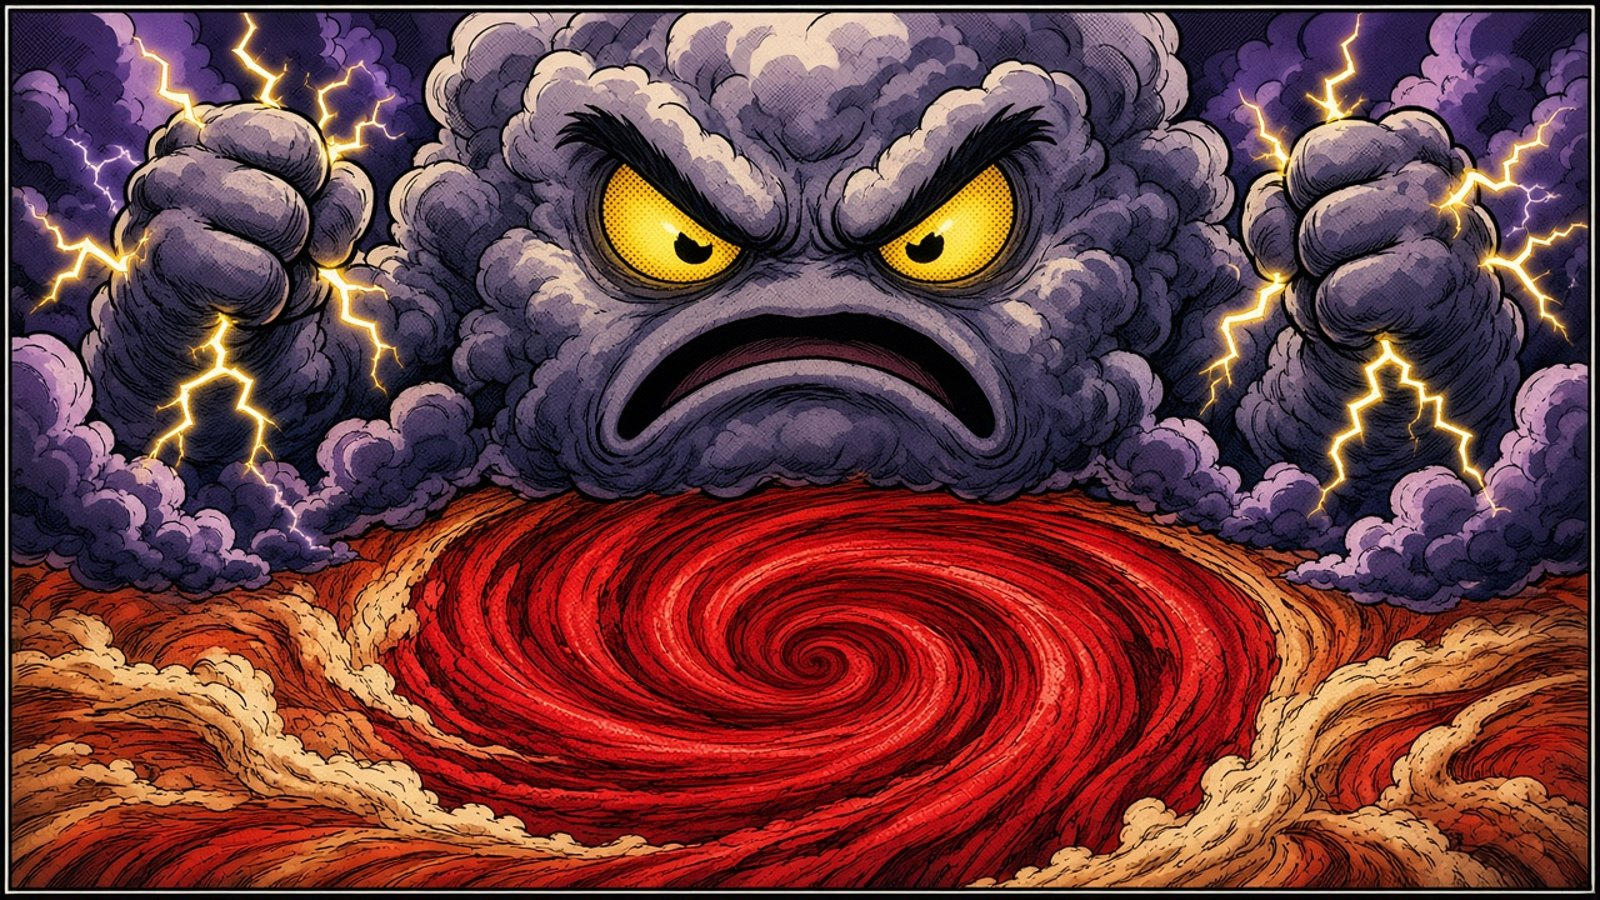
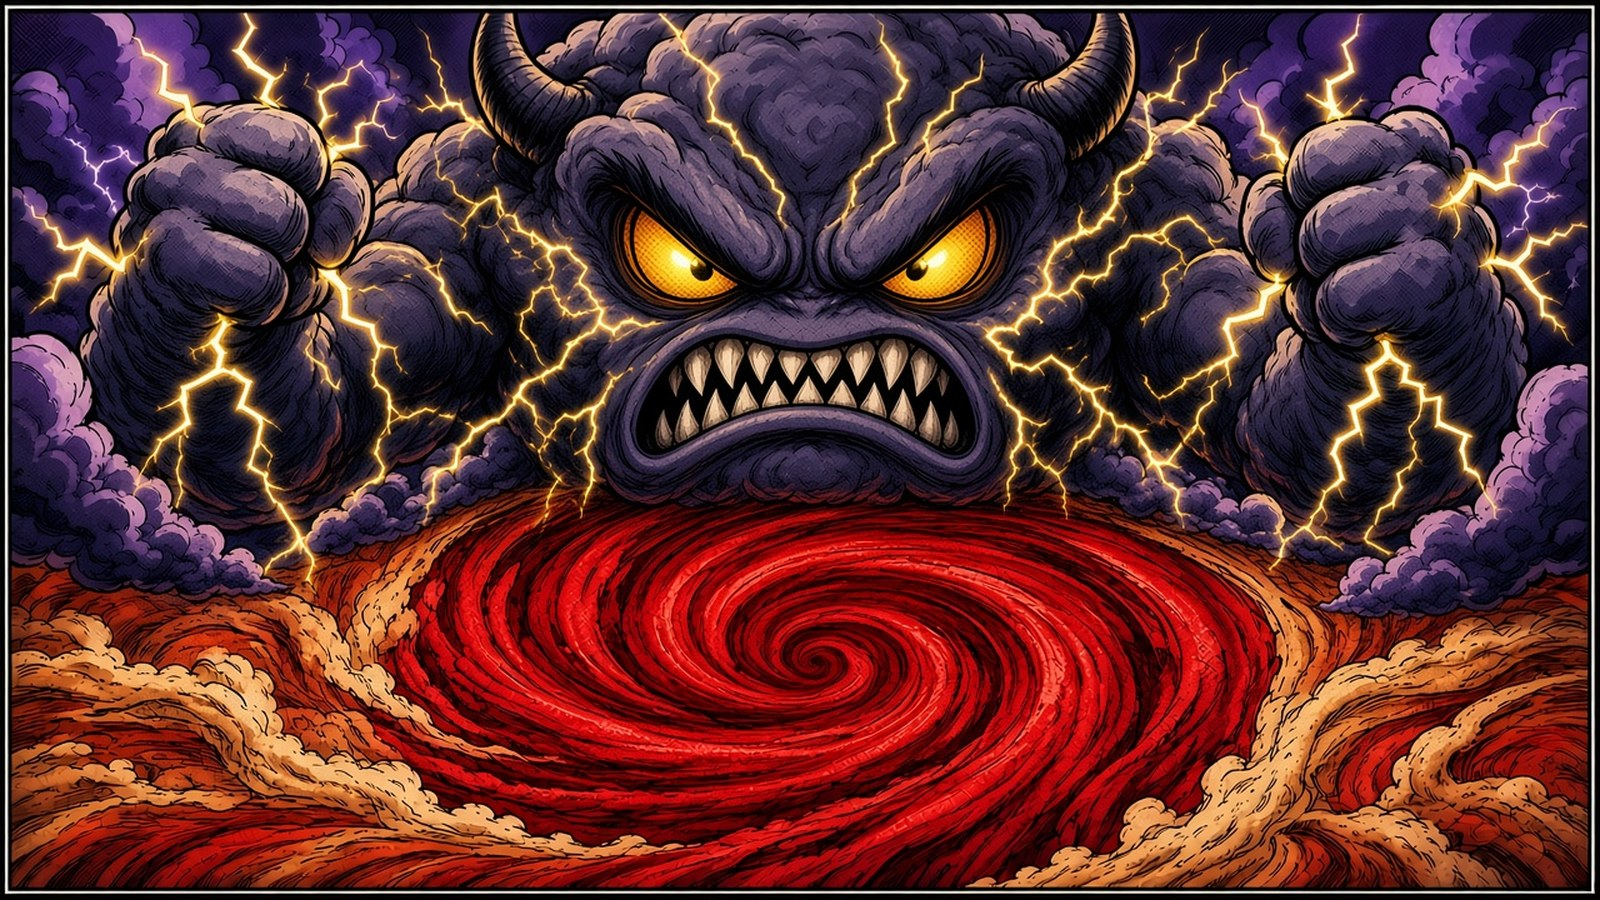
b33 b81ff6a c72

diff --git a/game.js b/game.js
@@ -1808,7 +1808,7 @@ function mapBeats(n){const r=MAPROW[n];if(!r)return[];return[{d:4,int:2,draw:t=>
  {img:'c08',d:3.6,int:2,cap:n===9?'Hiding in a nearby cloud...':'Meanwhile, in Kreel\'s cockpit...',bub:[{s:r[2],who:'ACE KREEL',x:40,y:230,w:240,tx:200,ty:180,at:.4}]}];}
 const JUPGO=[
  {img:'c71',d:4.5,int:3,cap:'Jupiter! Clouds as big as continents.',bub:[{s:'Hayes, these clouds look solid enough to walk on.',who:'@',x:40,y:230,w:240,tx:200,ty:180,at:.5},{s:'Then walk. Carefully, Captain!',who:'HAYES',x:340,y:230,w:220,tx:400,ty:180,at:2.2}],fx:{s:'WHOOSH!',x:470,y:60,sz:28,at:.3}},
- {img:'c72',d:4.5,int:3,sting:1,cap:'Over the giant red storm, something grumbles.',bub:[{s:'WHO DARES HOP ON MY CLOUDS?!',who:'STORM KING',x:40,y:230,w:250,tx:200,ty:180,at:.5}],fx:{s:'KRAKA-BOOM!',x:440,y:60,sz:28,at:.3}},
+ {img:'c72',d:4.5,int:3,sting:1,cap:'Over the giant red storm, something grumbles.',bub:[{s:'WHO DARES HOP ON MY CLOUDS?!',who:'STORM KING',x:40,y:230,w:250,tx:200,ty:180,at:.5}],fx:{s:'KRAKA-BOOM!',x:470,y:192,sz:28,at:.3}},
  {img:'c77',d:4.5,int:3,cap:'Far ahead: a sky city. And a Vorr balloon fortress.',bub:[{s:'BEEP! Kreel\'s goons are already there.',who:'COMET',x:40,y:230,w:240,tx:200,ty:180,at:.5}]}];
 const JUPWIN=[
  {img:'c73',d:4.5,int:2,cap:'Deep in the clouds...',bub:[{s:'Hmm? Visitors! Nobody visits. Except that one shiny fellow.',who:'CLOUD WIZARD',x:40,y:230,w:250,tx:200,ty:180,at:.5}]},
@@ -1881,7 +1881,7 @@ function chunk(str,n){const sen=str.match(/[^.!?]+[.!?]+['"]?\s*|[^.!?]+$/g)||[s
 function playComic(beats,onEnd){beats=splitB(beats);CB=beats;CEND=onEnd;comicI=0;comicT=0;go('comic');}
 function endComic(){if(CEND){const f=CEND;CEND=null;CB=splitB(COMIC);f();return;}seenComic=true;try{localStorage.setItem('gr_comic','1');}catch(e){}go('select');}
 function comicArt(){const tag=(arr,p)=>arr.forEach((b,i)=>{b.img=b.img||p+String(i+1).padStart(2,'0');});tag(COMIC,'c');tag(INTER1,'i1_');tag(MOONWIN,'mw_');tag(MARSARR,'ma_');tag(MARSLAND,'ml_');tag(MARSGO,'mg_');tag(MARSWIN,'mx_');
- fetch('assets/comic/manifest.json').then(r=>r.ok?r.json():[]).then(l=>{for(const f of l||[]){const m=String(f).match(/^(.+)\.(png|jpe?g)$/i);if(m)loadImg('comic_'+m[1],'assets/comic/'+f);}}).catch(()=>{});}
+ fetch('assets/comic/manifest.json').then(r=>r.ok?r.json():[]).then(l=>{for(const f of l||[]){const m=String(f).match(/^(.+)\.(png|jpe?g)$/i);if(m)loadImg('comic_'+m[1],'assets/comic/'+f+'?v=b33c');}}).catch(()=>{});}
 
 const WHO=[['It holds the power','DR. VEGA'],['Go far','DR. VEGA'],['Nothing gets','ACE KREEL'],['This isn','ACE KREEL'],['Setting her down','@'],['You win THIS','BIG BLORP'],['Two Keys safe','@'],['Faster! Blorp','BIG BLORP'],['There\'s the colony','@'],['Big Blorp is back','BIG BLORP'],['My whale','BIG BLORP'],['Okay, okay','DUST WHALE'],['The water is back','PIP-7'],['DECODED: HELP','CODED SIGNAL'],['Someone\'s locked','@'],['Krool! Move','BIG BLORP'],['There it is','@'],['Hop in','@'],['BEEP. I am Comet','COMET'],['The prisoner is','@']];
 function whoOf(q,b){if(q.who)return q.who==='@'?CAPS[cap].name:q.who;const s=q.s||'';for(const[k,n]of WHO)if(s.startsWith(k))return n==='@'?CAPS[cap].name:n;if(b&&b.img==='c10')return 'HAYES';if(b&&b.img==='c07')return 'MALAKAR';return CAPS[cap].name;}

diff --git a/index.html b/index.html
@@ -5,4 +5,4 @@
 body{position:fixed;inset:0}canvas{position:fixed;left:0;top:0;}#rot{display:none;position:fixed;inset:0;color:#ffc53d;font:bold 22px sans-serif;align-items:center;justify-content:center;text-align:center;background:#090c26}
 @media (orientation:portrait){#rot{display:flex}}</style></head><body>
 <canvas id="c"></canvas><div id="rot">Turn your device sideways<br>to play Pale Blue: Crystal Defenders</div>
-<script src="game.js?v=7e99cb4"></script></body></html>
+<script src="game.js?v=b81ff6a"></script></body></html>
